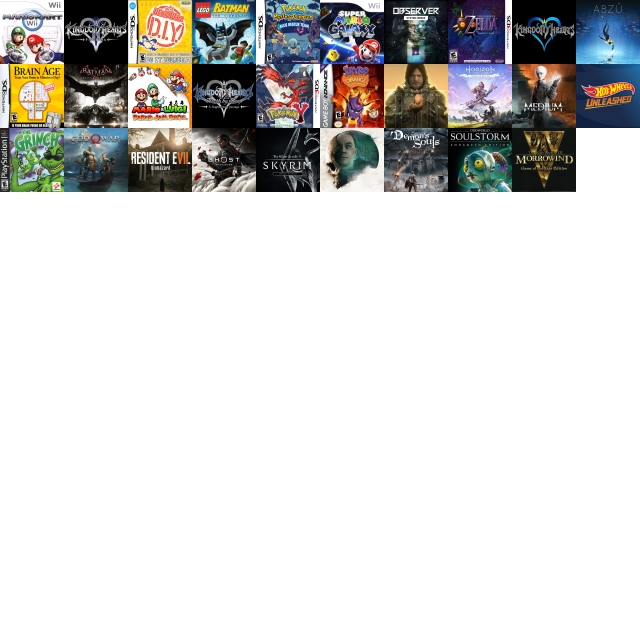
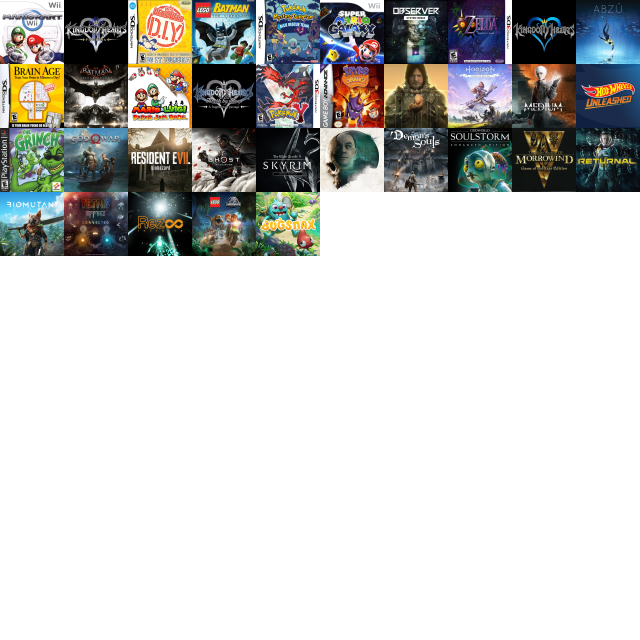
Update game list, add forgotten games and platinum trophy listings

Changed region(s): [[0.0, 0.2812, 0.5, 0.4062], [0.875, 0.1875, 1.0, 0.3125]]

diff --git a/resources/css/game-records.css b/resources/css/game-records.css
@@ -1,1 +1,1 @@
-div#top20-container{display:flex;flex-direction:row;flex-wrap:wrap}div#top20-row{display:flex;flex-direction:row}div#top20-item{display:flex;flex-direction:column;width:120px;align-items:center;margin-bottom:16px}div#top20-item>img{height:64px;width:64px;box-shadow:0 0 4px #000;margin-bottom:6px}div#top20-item>span{font-size:11px;text-align:center}div.game-listing{display:flex;align-items:center;padding-bottom:20px;padding-top:12px}div.game-icon{padding-right:16px}div.game-icon>img{height:64px;width:64px;box-shadow:0 0 4px #000}div.listing-details{display:flex;flex-direction:column}div.listing-details>span#title{font-size:16px;font-weight:700;padding-bottom:4px}div.listing-details>span#title>img{margin-left:4px}div.listing-details>span#platform{font-size:12px;font-style:italic}img#bloodborne{background:url(/resources/png/icons.png) 0 0}img#smo{background:url(/resources/png/icons.png) -64px 0}img#pmok{background:url(/resources/png/icons.png) -128px 0}img#mysims{background:url(/resources/png/icons.png) -192px 0}img#lotr{background:url(/resources/png/icons.png) -256px 0}img#myst{background:url(/resources/png/icons.png) -320px 0}img#doom{background:url(/resources/png/icons.png) -384px 0}img#kh2og{background:url(/resources/png/icons.png) -448px 0}img#fc3{background:url(/resources/png/icons.png) -512px 0}img#pop{background:url(/resources/png/icons.png) -576px 0}img#hpss{background:url(/resources/png/icons.png) 0 -64px}img#lozo{background:url(/resources/png/icons.png) -64px -64px}img#poultry{background:url(/resources/png/icons.png) -128px -64px}img#tlou{background:url(/resources/png/icons.png) -192px -64px}img#wiisports{background:url(/resources/png/icons.png) -256px -64px}img#mp9{background:url(/resources/png/icons.png) -320px -64px}img#funnyhackergame{background:url(/resources/png/icons.png) -384px -64px}img#bat3{background:url(/resources/png/icons.png) -448px -64px}img#bbs{background:url(/resources/png/icons.png) -512px -64px}img#oot3d{background:url(/resources/png/icons.png) -576px -64px}img#mkds{background:url(/resources/png/icons.png) 0 -128px}img#bug{background:url(/resources/png/icons.png) -64px -128px}img#spyro1{background:url(/resources/png/icons.png) -128px -128px}img#twofour{background:url(/resources/png/icons.png) -192px -128px}img#cookiecream{background:url(/resources/png/icons.png) -256px -128px}img#ff7r{background:url(/resources/png/icons.png) -320px -128px}img#sm64ds{background:url(/resources/png/icons.png) -384px -128px}img#lij{background:url(/resources/png/icons.png) -448px -128px}img#polar{background:url(/resources/png/icons.png) -512px -128px}img#mc{background:url(/resources/png/icons.png) -576px -128px}img#khdays{background:url(/resources/png/icons.png) 0 -192px}img#sly{background:url(/resources/png/icons.png) -64px -192px}img#mario3das{background:url(/resources/png/icons.png) -128px -192px}img#skywardhd{background:url(/resources/png/icons.png) -192px -192px}img#badspyro1{background:url(/resources/png/icons.png) -256px -192px}img#mtr{background:url(/resources/png/icons.png) -320px -192px}img#kh3ds{background:url(/resources/png/icons.png) -384px -192px}img#wasteoftime{background:url(/resources/png/icons.png) -448px -192px}img#legomovie{background:url(/resources/png/icons.png) -512px -192px}img#celeste{background:url(/resources/png/icons.png) -576px -192px}img#bigchungus{background:url(/resources/png/icons.png) 0 -256px}img#hourglass{background:url(/resources/png/icons.png) -64px -256px}img#gtasa{background:url(/resources/png/icons.png) -128px -256px}img#spooder{background:url(/resources/png/icons.png) -192px -256px}img#khcom{background:url(/resources/png/icons.png) -256px -256px}img#hue{background:url(/resources/png/icons.png) -320px -256px}img#soma{background:url(/resources/png/icons.png) -384px -256px}img#badspyro2{background:url(/resources/png/icons.png) -448px -256px}img#blob{background:url(/resources/png/icons.png) -512px -256px}img#mariods{background:url(/resources/png/icons.png) -576px -256px}img#pirates{background:url(/resources/png/icons.png) 0 -320px}img#pm64{background:url(/resources/png/icons.png) -64px -320px}img#botw2pls{background:url(/resources/png/icons.png) -128px -320px}img#re8{background:url(/resources/png/icons.png) -192px -320px}img#pacman{background:url(/resources/png/icons.png) -256px -320px}img#spyro2{background:url(/resources/png/icons.png) -320px -320px}img#kh3{background:url(/resources/png/icons.png) -384px -320px}img#zebra{background:url(/resources/png/icons.png) -448px -320px}img#mariodream{background:url(/resources/png/icons.png) -512px -320px}img#cyber{background:url(/resources/png/icons.png) -576px -320px}img#tlou2{background:url(/resources/png/icons.png) 0 -384px}img#balan{background:url(/resources/png/icons.png) -64px -384px}img#funnycatgame{background:url(/resources/png/icons.png) -128px -384px}img#papermariowii{background:url(/resources/png/icons.png) -192px -384px}img#dogs{background:url(/resources/png/icons.png) -256px -384px}img#casper{background:url(/resources/png/icons.png) -320px -384px}img#tyd{background:url(/resources/png/icons.png) -384px -384px}img#cooking{background:url(/resources/png/icons.png) -448px -384px}img#linksawake{background:url(/resources/png/icons.png) -512px -384px}img#khmom{background:url(/resources/png/icons.png) -576px -384px}img#toystory{background:url(/resources/png/icons.png) 0 -448px}img#nicktoons{background:url(/resources/png/icons.png) -64px -448px}img#inside{background:url(/resources/png/icons.png) -128px -448px}img#outerwilds{background:url(/resources/png/icons.png) -192px -448px}img#mk8{background:url(/resources/png/icons.png) -256px -448px}img#scribblenauts{background:url(/resources/png/icons.png) -320px -448px}img#legostarwars2{background:url(/resources/png/icons.png) -384px -448px}img#skywii{background:url(/resources/png/icons.png) -448px -448px}img#ffxv{background:url(/resources/png/icons.png) -512px -448px}img#hollowknight{background:url(/resources/png/icons.png) -576px -448px}img#crash4{background:url(/resources/png/icons.png) 0 -512px}img#layton{background:url(/resources/png/icons.png) -64px -512px}img#galaxy2{background:url(/resources/png/icons.png) -128px -512px}img#fourswords{background:url(/resources/png/icons.png) -192px -512px}img#legostarwars1{background:url(/resources/png/icons.png) -256px -512px}img#bowsersinsidestory{background:url(/resources/png/icons.png) -320px -512px}img#newspyro{background:url(/resources/png/icons.png) -384px -512px}img#kh1fm{background:url(/resources/png/icons.png) -448px -512px}img#rdr2{background:url(/resources/png/icons.png) -512px -512px}img#peach{background:url(/resources/png/icons.png) -576px -512px}img#potter14{background:url(/resources/png/icons.png) 0 -576px}img#potter57{background:url(/resources/png/icons.png) -64px -576px}img#khdddhd{background:url(/resources/png/icons.png) -128px -576px}img#eyetoyplay2{background:url(/resources/png/icons.png) -192px -576px}img#colossus{background:url(/resources/png/icons.png) -256px -576px}img#nightmares{background:url(/resources/png/icons.png) -320px -576px}img#resort{background:url(/resources/png/icons.png) -384px -576px}img#spyro3{background:url(/resources/png/icons.png) -448px -576px}img#mariopartyds{background:url(/resources/png/icons.png) -512px -576px}img#epicmick{background:url(/resources/png/icons.png) -576px -576px}img#mkwii{background:url(/resources/png/icons2.png) 0 0}img#kh2fm{background:url(/resources/png/icons2.png) -64px 0}img#warioware{background:url(/resources/png/icons2.png) -128px 0}img#batmanps2{background:url(/resources/png/icons2.png) -192px 0}img#pokemondungeon{background:url(/resources/png/icons2.png) -256px 0}img#smg1{background:url(/resources/png/icons2.png) -320px 0}img#observer{background:url(/resources/png/icons2.png) -384px 0}img#mm3d{background:url(/resources/png/icons2.png) -448px 0}img#ogkh{background:url(/resources/png/icons2.png) -512px 0}img#abzu{background:url(/resources/png/icons2.png) -576px 0}img#brainage{background:url(/resources/png/icons2.png) 0 -64px}img#arkhamknight{background:url(/resources/png/icons2.png) -64px -64px}img#paperjam{background:url(/resources/png/icons2.png) -128px -64px}img#kh02{background:url(/resources/png/icons2.png) -192px -64px}img#pokemony{background:url(/resources/png/icons2.png) -256px -64px}img#spyroorange{background:url(/resources/png/icons2.png) -320px -64px}img#deathstrand{background:url(/resources/png/icons2.png) -384px -64px}img#zerodawn{background:url(/resources/png/icons2.png) -448px -64px}img#medium{background:url(/resources/png/icons2.png) -512px -64px}img#hotwheels{background:url(/resources/png/icons2.png) -576px -64px}img#grinch{background:url(/resources/png/icons2.png) 0 -128px}img#godofwar{background:url(/resources/png/icons2.png) -64px -128px}img#re7{background:url(/resources/png/icons2.png) -128px -128px}img#ghostima{background:url(/resources/png/icons2.png) -192px -128px}img#skyrim{background:url(/resources/png/icons2.png) -256px -128px}img#darkpicmedan{background:url(/resources/png/icons2.png) -320px -128px}img#demonssouls{background:url(/resources/png/icons2.png) -384px -128px}img#soulstorm{background:url(/resources/png/icons2.png) -448px -128px}img#morrowind{background:url(/resources/png/icons2.png) -512px -128px}
+div#top20-container{display:flex;flex-direction:row;flex-wrap:wrap}div#top20-row{display:flex;flex-direction:row}div#top20-item{display:flex;flex-direction:column;width:120px;align-items:center;margin-bottom:16px}div#top20-item>img{height:64px;width:64px;box-shadow:0 0 4px #000;margin-bottom:6px}div#top20-item>span{font-size:11px;text-align:center}div.game-listing{display:flex;align-items:center;padding-bottom:20px;padding-top:12px}div.game-icon{padding-right:16px}div.game-icon>img{height:64px;width:64px;box-shadow:0 0 4px #000}div.listing-details{display:flex;flex-direction:column}div.listing-details>span#title{font-size:16px;font-weight:700;padding-bottom:4px}div.listing-details>span#title>img{margin-left:4px}div.listing-details>span#platform{font-size:12px;font-style:italic}img#bloodborne{background:url(/resources/png/icons.png) 0 0}img#smo{background:url(/resources/png/icons.png) -64px 0}img#pmok{background:url(/resources/png/icons.png) -128px 0}img#mysims{background:url(/resources/png/icons.png) -192px 0}img#lotr{background:url(/resources/png/icons.png) -256px 0}img#myst{background:url(/resources/png/icons.png) -320px 0}img#doom{background:url(/resources/png/icons.png) -384px 0}img#kh2og{background:url(/resources/png/icons.png) -448px 0}img#fc3{background:url(/resources/png/icons.png) -512px 0}img#pop{background:url(/resources/png/icons.png) -576px 0}img#hpss{background:url(/resources/png/icons.png) 0 -64px}img#lozo{background:url(/resources/png/icons.png) -64px -64px}img#poultry{background:url(/resources/png/icons.png) -128px -64px}img#tlou{background:url(/resources/png/icons.png) -192px -64px}img#wiisports{background:url(/resources/png/icons.png) -256px -64px}img#mp9{background:url(/resources/png/icons.png) -320px -64px}img#funnyhackergame{background:url(/resources/png/icons.png) -384px -64px}img#bat3{background:url(/resources/png/icons.png) -448px -64px}img#bbs{background:url(/resources/png/icons.png) -512px -64px}img#oot3d{background:url(/resources/png/icons.png) -576px -64px}img#mkds{background:url(/resources/png/icons.png) 0 -128px}img#bug{background:url(/resources/png/icons.png) -64px -128px}img#spyro1{background:url(/resources/png/icons.png) -128px -128px}img#twofour{background:url(/resources/png/icons.png) -192px -128px}img#cookiecream{background:url(/resources/png/icons.png) -256px -128px}img#ff7r{background:url(/resources/png/icons.png) -320px -128px}img#sm64ds{background:url(/resources/png/icons.png) -384px -128px}img#lij{background:url(/resources/png/icons.png) -448px -128px}img#polar{background:url(/resources/png/icons.png) -512px -128px}img#mc{background:url(/resources/png/icons.png) -576px -128px}img#khdays{background:url(/resources/png/icons.png) 0 -192px}img#sly{background:url(/resources/png/icons.png) -64px -192px}img#mario3das{background:url(/resources/png/icons.png) -128px -192px}img#skywardhd{background:url(/resources/png/icons.png) -192px -192px}img#badspyro1{background:url(/resources/png/icons.png) -256px -192px}img#mtr{background:url(/resources/png/icons.png) -320px -192px}img#kh3ds{background:url(/resources/png/icons.png) -384px -192px}img#wasteoftime{background:url(/resources/png/icons.png) -448px -192px}img#legomovie{background:url(/resources/png/icons.png) -512px -192px}img#celeste{background:url(/resources/png/icons.png) -576px -192px}img#bigchungus{background:url(/resources/png/icons.png) 0 -256px}img#hourglass{background:url(/resources/png/icons.png) -64px -256px}img#gtasa{background:url(/resources/png/icons.png) -128px -256px}img#spooder{background:url(/resources/png/icons.png) -192px -256px}img#khcom{background:url(/resources/png/icons.png) -256px -256px}img#hue{background:url(/resources/png/icons.png) -320px -256px}img#soma{background:url(/resources/png/icons.png) -384px -256px}img#badspyro2{background:url(/resources/png/icons.png) -448px -256px}img#blob{background:url(/resources/png/icons.png) -512px -256px}img#mariods{background:url(/resources/png/icons.png) -576px -256px}img#pirates{background:url(/resources/png/icons.png) 0 -320px}img#pm64{background:url(/resources/png/icons.png) -64px -320px}img#botw2pls{background:url(/resources/png/icons.png) -128px -320px}img#re8{background:url(/resources/png/icons.png) -192px -320px}img#pacman{background:url(/resources/png/icons.png) -256px -320px}img#spyro2{background:url(/resources/png/icons.png) -320px -320px}img#kh3{background:url(/resources/png/icons.png) -384px -320px}img#zebra{background:url(/resources/png/icons.png) -448px -320px}img#mariodream{background:url(/resources/png/icons.png) -512px -320px}img#cyber{background:url(/resources/png/icons.png) -576px -320px}img#tlou2{background:url(/resources/png/icons.png) 0 -384px}img#balan{background:url(/resources/png/icons.png) -64px -384px}img#funnycatgame{background:url(/resources/png/icons.png) -128px -384px}img#papermariowii{background:url(/resources/png/icons.png) -192px -384px}img#dogs{background:url(/resources/png/icons.png) -256px -384px}img#casper{background:url(/resources/png/icons.png) -320px -384px}img#tyd{background:url(/resources/png/icons.png) -384px -384px}img#cooking{background:url(/resources/png/icons.png) -448px -384px}img#linksawake{background:url(/resources/png/icons.png) -512px -384px}img#khmom{background:url(/resources/png/icons.png) -576px -384px}img#toystory{background:url(/resources/png/icons.png) 0 -448px}img#nicktoons{background:url(/resources/png/icons.png) -64px -448px}img#inside{background:url(/resources/png/icons.png) -128px -448px}img#outerwilds{background:url(/resources/png/icons.png) -192px -448px}img#mk8{background:url(/resources/png/icons.png) -256px -448px}img#scribblenauts{background:url(/resources/png/icons.png) -320px -448px}img#legostarwars2{background:url(/resources/png/icons.png) -384px -448px}img#skywii{background:url(/resources/png/icons.png) -448px -448px}img#ffxv{background:url(/resources/png/icons.png) -512px -448px}img#hollowknight{background:url(/resources/png/icons.png) -576px -448px}img#crash4{background:url(/resources/png/icons.png) 0 -512px}img#layton{background:url(/resources/png/icons.png) -64px -512px}img#galaxy2{background:url(/resources/png/icons.png) -128px -512px}img#fourswords{background:url(/resources/png/icons.png) -192px -512px}img#legostarwars1{background:url(/resources/png/icons.png) -256px -512px}img#bowsersinsidestory{background:url(/resources/png/icons.png) -320px -512px}img#newspyro{background:url(/resources/png/icons.png) -384px -512px}img#kh1fm{background:url(/resources/png/icons.png) -448px -512px}img#rdr2{background:url(/resources/png/icons.png) -512px -512px}img#peach{background:url(/resources/png/icons.png) -576px -512px}img#potter14{background:url(/resources/png/icons.png) 0 -576px}img#potter57{background:url(/resources/png/icons.png) -64px -576px}img#khdddhd{background:url(/resources/png/icons.png) -128px -576px}img#eyetoyplay2{background:url(/resources/png/icons.png) -192px -576px}img#colossus{background:url(/resources/png/icons.png) -256px -576px}img#nightmares{background:url(/resources/png/icons.png) -320px -576px}img#resort{background:url(/resources/png/icons.png) -384px -576px}img#spyro3{background:url(/resources/png/icons.png) -448px -576px}img#mariopartyds{background:url(/resources/png/icons.png) -512px -576px}img#epicmick{background:url(/resources/png/icons.png) -576px -576px}img#mkwii{background:url(/resources/png/icons2.png) 0 0}img#kh2fm{background:url(/resources/png/icons2.png) -64px 0}img#warioware{background:url(/resources/png/icons2.png) -128px 0}img#batmanps2{background:url(/resources/png/icons2.png) -192px 0}img#pokemondungeon{background:url(/resources/png/icons2.png) -256px 0}img#smg1{background:url(/resources/png/icons2.png) -320px 0}img#observer{background:url(/resources/png/icons2.png) -384px 0}img#mm3d{background:url(/resources/png/icons2.png) -448px 0}img#ogkh{background:url(/resources/png/icons2.png) -512px 0}img#abzu{background:url(/resources/png/icons2.png) -576px 0}img#brainage{background:url(/resources/png/icons2.png) 0 -64px}img#arkhamknight{background:url(/resources/png/icons2.png) -64px -64px}img#paperjam{background:url(/resources/png/icons2.png) -128px -64px}img#kh02{background:url(/resources/png/icons2.png) -192px -64px}img#pokemony{background:url(/resources/png/icons2.png) -256px -64px}img#spyroorange{background:url(/resources/png/icons2.png) -320px -64px}img#deathstrand{background:url(/resources/png/icons2.png) -384px -64px}img#zerodawn{background:url(/resources/png/icons2.png) -448px -64px}img#medium{background:url(/resources/png/icons2.png) -512px -64px}img#hotwheels{background:url(/resources/png/icons2.png) -576px -64px}img#grinch{background:url(/resources/png/icons2.png) 0 -128px}img#godofwar{background:url(/resources/png/icons2.png) -64px -128px}img#re7{background:url(/resources/png/icons2.png) -128px -128px}img#ghostima{background:url(/resources/png/icons2.png) -192px -128px}img#skyrim{background:url(/resources/png/icons2.png) -256px -128px}img#darkpicmedan{background:url(/resources/png/icons2.png) -320px -128px}img#demonssouls{background:url(/resources/png/icons2.png) -384px -128px}img#soulstorm{background:url(/resources/png/icons2.png) -448px -128px}img#morrowind{background:url(/resources/png/icons2.png) -512px -128px}img#returnal{background:url(/resources/png/icons2.png) -576px -128px}img#biomutant{background:url(/resources/png/icons2.png) 0 -192px}img#tetriseffect{background:url(/resources/png/icons2.png) -64px -192px}img#rez{background:url(/resources/png/icons2.png) -128px -192px}img#legodino{background:url(/resources/png/icons2.png) -192px -192px}img#bugsnax{background:url(/resources/png/icons2.png) -256px -192px}

diff --git a/_pages/game-records.html b/_pages/game-records.html
@@ -3,7 +3,7 @@ permalink: /game-records/
 layout: wnesenior
 title: Game Records
 base_url: /
-last_updated: December 4, 2022 at 12:38 AM
+last_updated: December 24, 2022 at 6:22 PM
 ---
 
 <link href="/resources/css/game-records.css" rel="stylesheet" type="text/css">
@@ -140,6 +140,14 @@ last_updated: December 4, 2022 at 12:38 AM
 	</div>
 </div>
 <div class="game-listing">
+	<div class="game-icon"><img id="biomutant" alt="icon" src="/resources/png/blank.png"></div>
+	<div class="listing-details">
+		<span id="title">Biomutant</span>
+		<span id="platform">PlayStation</span>
+		<span id="rating"><img src="/resources/gif/star-filled.gif"><img src="/resources/gif/star-filled.gif"><img src="/resources/gif/star-filled.gif"><img src="/resources/gif/star-filled.gif"><img src="/resources/gif/star-empty.gif"></span>
+	</div>
+</div>
+<div class="game-listing">
 	<div class="game-icon"><img id="bloodborne" alt="icon" src="/resources/png/blank.png"></div>
 	<div class="listing-details">
 		<span id="title">Bloodborne <img id="100" alt="100" src="/resources/png/100.png"><img id="plat" alt="plat" src="/resources/png/plat.png"></span>
@@ -164,6 +172,14 @@ last_updated: December 4, 2022 at 12:38 AM
 	</div>
 </div>
 <div class="game-listing">
+	<div class="game-icon"><img id="bugsnax" alt="icon" src="/resources/png/blank.png"></div>
+	<div class="listing-details">
+		<span id="title">Bugsnax <img id="100" alt="100" src="/resources/png/100.png"><img id="plat" alt="plat" src="/resources/png/plat.png"></span>
+		<span id="platform">PlayStation</span>
+		<span id="rating"><img src="/resources/gif/star-filled.gif"><img src="/resources/gif/star-filled.gif"><img src="/resources/gif/star-filled.gif"><img src="/resources/gif/star-empty.gif"><img src="/resources/gif/star-empty.gif"></span>
+	</div>
+</div>
+<div class="game-listing">
 	<div class="game-icon"><img id="casper" alt="icon" src="/resources/png/blank.png"></div>
 	<div class="listing-details">
 		<span id="title">Casper: Spirit Dimensions <img id="100" alt="100" src="/resources/png/100.png"></span>
@@ -175,7 +191,7 @@ last_updated: December 4, 2022 at 12:38 AM
 	<div class="game-icon"><img id="celeste" alt="icon" src="/resources/png/blank.png"></div>
 	<div class="listing-details">
 		<span id="title">Celeste</span>
-		<span id="platform">PC</span>
+		<span id="platform">PlayStation</span>
 		<span id="rating"><img src="/resources/gif/star-filled.gif"><img src="/resources/gif/star-filled.gif"><img src="/resources/gif/star-filled.gif"><img src="/resources/gif/star-half.gif"><img src="/resources/gif/star-empty.gif"></span>
 	</div>
 </div>
@@ -500,6 +516,14 @@ last_updated: December 4, 2022 at 12:38 AM
 	</div>
 </div>
 <div class="game-listing">
+	<div class="game-icon"><img id="legodino" alt="icon" src="/resources/png/blank.png"></div>
+	<div class="listing-details">
+		<span id="title">LEGO Jurassic World <img id="100" alt="100" src="/resources/png/100.png"><img id="plat" alt="plat" src="/resources/png/plat.png"></span>
+		<span id="platform">PlayStation</span>
+		<span id="rating"><img src="/resources/gif/star-filled.gif"><img src="/resources/gif/star-filled.gif"><img src="/resources/gif/star-filled.gif"><img src="/resources/gif/star-empty.gif"><img src="/resources/gif/star-empty.gif"></span>
+	</div>
+</div>
+<div class="game-listing">
 	<div class="game-icon"><img id="lotr" alt="icon" src="/resources/png/blank.png"></div>
 	<div class="listing-details">
 		<span id="title">LEGO Lord of the Rings <img id="100" alt="100" src="/resources/png/100.png"></span>
@@ -772,6 +796,22 @@ last_updated: December 4, 2022 at 12:38 AM
 	</div>
 </div>
 <div class="game-listing">
+	<div class="game-icon"><img id="returnal" alt="icon" src="/resources/png/blank.png"></div>
+	<div class="listing-details">
+		<span id="title">Returnal</span>
+		<span id="platform">PlayStation</span>
+		<span id="rating"><img src="/resources/gif/star-filled.gif"><img src="/resources/gif/star-filled.gif"><img src="/resources/gif/star-filled.gif"><img src="/resources/gif/star-empty.gif"><img src="/resources/gif/star-empty.gif"></span>
+	</div>
+</div>
+<div class="game-listing">
+	<div class="game-icon"><img id="rez" alt="icon" src="/resources/png/blank.png"></div>
+	<div class="listing-details">
+		<span id="title">Rez Infinite</span>
+		<span id="platform">PlayStation</span>
+		<span id="rating"><img src="/resources/gif/star-filled.gif"><img src="/resources/gif/star-filled.gif"><img src="/resources/gif/star-half.gif"><img src="/resources/gif/star-empty.gif"><img src="/resources/gif/star-empty.gif"></span>
+	</div>
+</div>
+<div class="game-listing">
 	<div class="game-icon"><img id="scribblenauts" alt="icon" src="/resources/png/blank.png"></div>
 	<div class="listing-details">
 		<span id="title">Scribblenauts</span>
@@ -806,7 +846,7 @@ last_updated: December 4, 2022 at 12:38 AM
 <div class="game-listing">
 	<div class="game-icon"><img id="spyro1" alt="icon" src="/resources/png/blank.png"></div>
 	<div class="listing-details">
-		<span id="title">Spyro the Dragon <img id="100" alt="100" src="/resources/png/100.png"></span>
+		<span id="title">Spyro the Dragon <img id="100" alt="100" src="/resources/png/100.png"><img id="plat" alt="plat" src="/resources/png/plat.png"></span>
 		<span id="platform">PlayStation 1</span>
 		<span id="rating"><img src="/resources/gif/star-filled.gif"><img src="/resources/gif/star-filled.gif"><img src="/resources/gif/star-filled.gif"><img src="/resources/gif/star-filled.gif"><img src="/resources/gif/star-filled.gif"></span>
 	</div>
@@ -814,7 +854,7 @@ last_updated: December 4, 2022 at 12:38 AM
 <div class="game-listing">
 	<div class="game-icon"><img id="spyro2" alt="icon" src="/resources/png/blank.png"></div>
 	<div class="listing-details">
-		<span id="title">Spyro 2: Ripto's Rage! <img id="100" alt="100" src="/resources/png/100.png"></span>
+		<span id="title">Spyro 2: Ripto's Rage! <img id="100" alt="100" src="/resources/png/100.png"><img id="plat" alt="plat" src="/resources/png/plat.png"></span>
 		<span id="platform">PlayStation 1</span>
 		<span id="rating"><img src="/resources/gif/star-filled.gif"><img src="/resources/gif/star-filled.gif"><img src="/resources/gif/star-filled.gif"><img src="/resources/gif/star-filled.gif"><img src="/resources/gif/star-half.gif"></span>
 	</div>
@@ -822,7 +862,7 @@ last_updated: December 4, 2022 at 12:38 AM
 <div class="game-listing">
 	<div class="game-icon"><img id="spyro3" alt="icon" src="/resources/png/blank.png"></div>
 	<div class="listing-details">
-		<span id="title">Spyro: Year of the Dragon <img id="100" alt="100" src="/resources/png/100.png"></span>
+		<span id="title">Spyro: Year of the Dragon <img id="100" alt="100" src="/resources/png/100.png"><img id="plat" alt="plat" src="/resources/png/plat.png"></span>
 		<span id="platform">PlayStation 1</span>
 		<span id="rating"><img src="/resources/gif/star-filled.gif"><img src="/resources/gif/star-filled.gif"><img src="/resources/gif/star-filled.gif"><img src="/resources/gif/star-filled.gif"><img src="/resources/gif/star-filled.gif"></span>
 	</div>
@@ -916,6 +956,14 @@ last_updated: December 4, 2022 at 12:38 AM
 	</div>
 </div>
 <div class="game-listing">
+	<div class="game-icon"><img id="tetriseffect" alt="icon" src="/resources/png/blank.png"></div>
+	<div class="listing-details">
+		<span id="title">Tetris Effect: Connected</span>
+		<span id="platform">PlayStation</span>
+		<span id="rating"><img src="/resources/gif/star-filled.gif"><img src="/resources/gif/star-filled.gif"><img src="/resources/gif/star-filled.gif"><img src="/resources/gif/star-half.gif"><img src="/resources/gif/star-empty.gif"></span>
+	</div>
+</div>
+<div class="game-listing">
 	<div class="game-icon"><img id="cookiecream" alt="icon" src="/resources/png/blank.png"></div>
 	<div class="listing-details">
 		<span id="title">The Adventures of Cookie & Cream</span>
@@ -942,7 +990,7 @@ last_updated: December 4, 2022 at 12:38 AM
 <div class="game-listing">
 	<div class="game-icon"><img id="skyrim" alt="icon" src="/resources/png/blank.png"></div>
 	<div class="listing-details">
-		<span id="title">The Elder Scrolls V: Skyrim - Special Edition <img id="100" alt="100" src="/resources/png/100.png"></span>
+		<span id="title">The Elder Scrolls V: Skyrim - Special Edition <img id="100" alt="100" src="/resources/png/100.png"><img id="plat" alt="plat" src="/resources/png/plat.png"></span>
 		<span id="platform">PlayStation</span>
 		<span id="rating"><img src="/resources/gif/star-filled.gif"><img src="/resources/gif/star-filled.gif"><img src="/resources/gif/star-filled.gif"><img src="/resources/gif/star-filled.gif"><img src="/resources/gif/star-filled.gif"></span>
 	</div>
